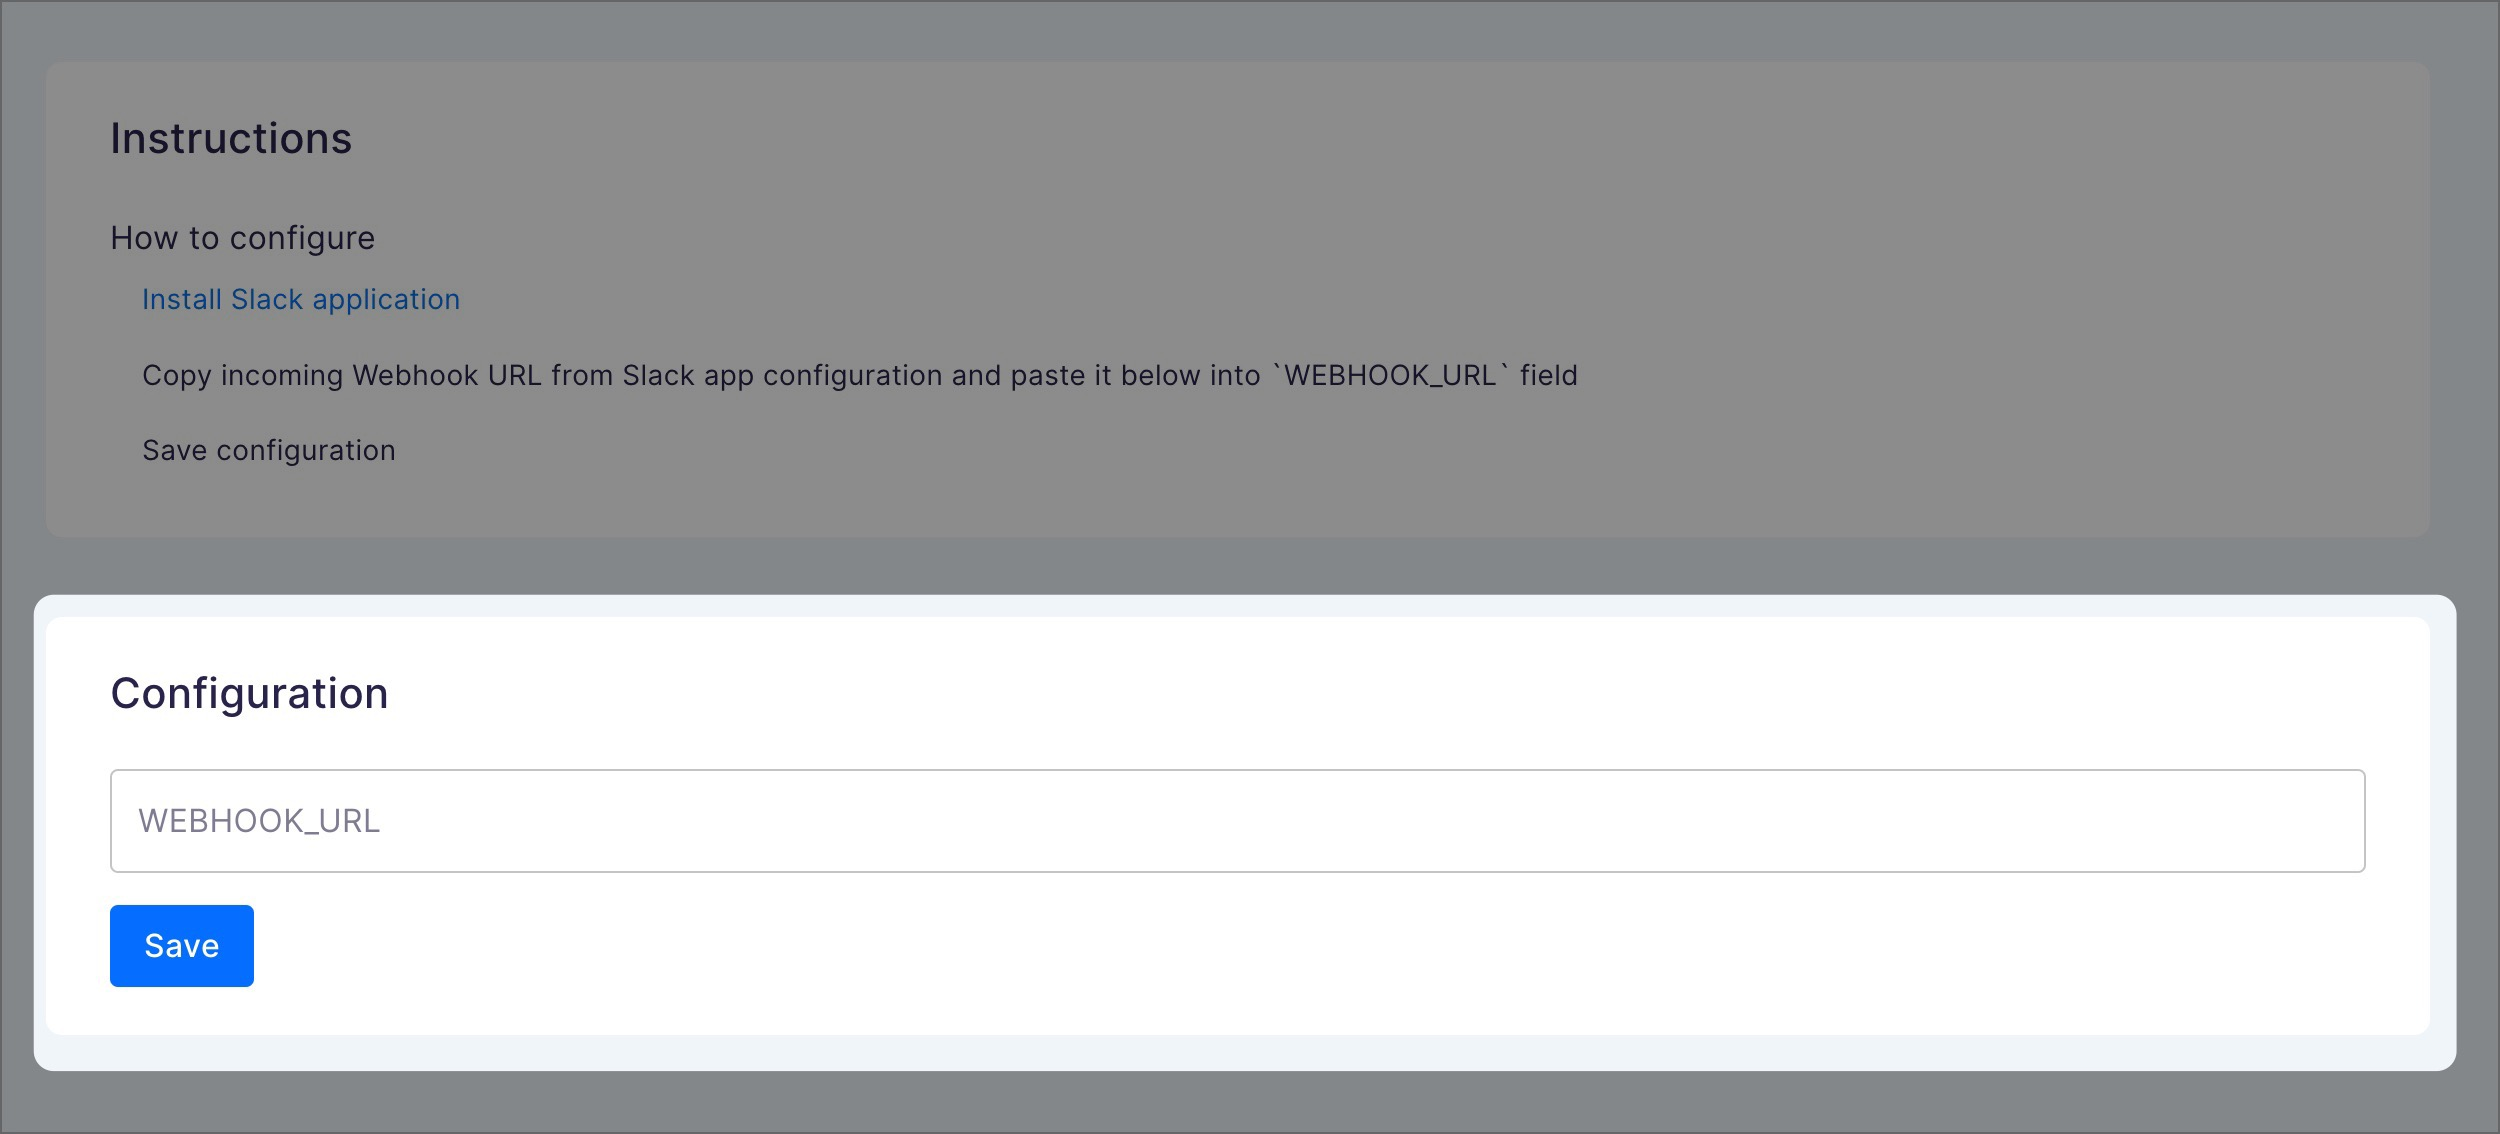
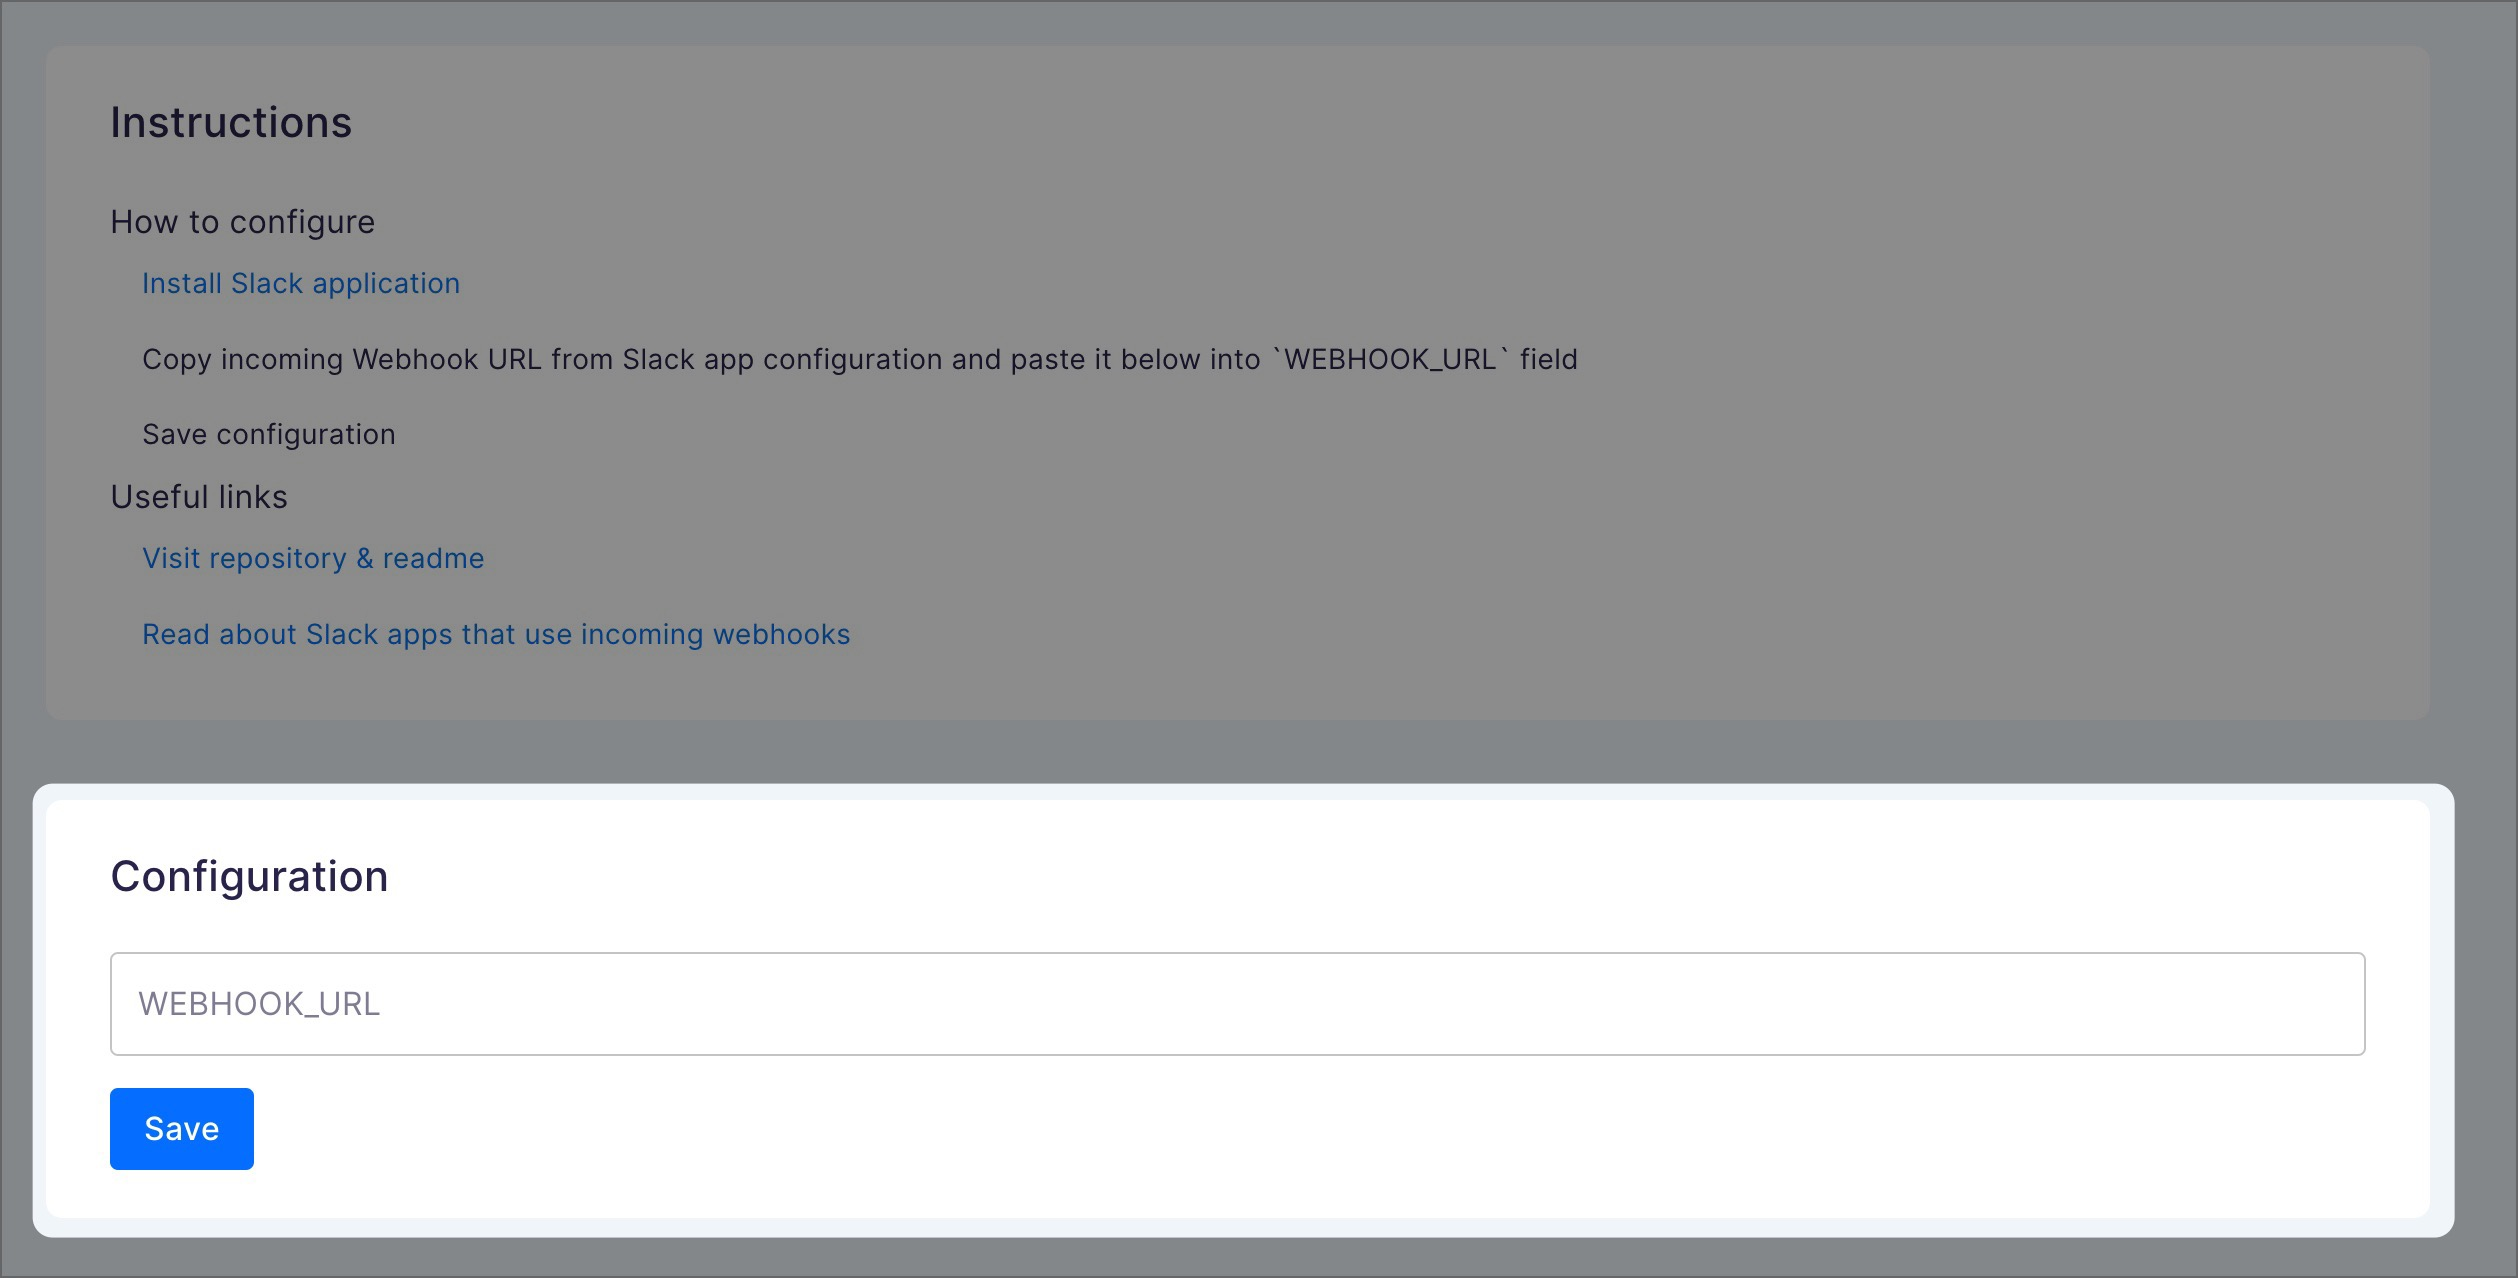
feat: add additional links to our & slack readme

Changed region(s): [[0.0, 0.4938, 0.9984, 0.9877], [0.0312, 0.0926, 0.624, 0.4012], [0.0624, 0.4321, 0.1872, 0.463]]

diff --git a/pages/configuration.tsx b/pages/configuration.tsx
@@ -133,6 +133,18 @@ function Instructions() {
   slackUrl.searchParams.append("new_app", "1");
   slackUrl.searchParams.append("manifest_json", JSON.stringify(data));
 
+  const openExternalUrl = (to: string) => {
+    // eslint-disable-next-line @typescript-eslint/no-floating-promises
+    appBridge?.dispatch({
+      type: "redirect",
+      payload: {
+        newContext: true,
+        actionId: "redirect_from_klaviyo_app",
+        to,
+      },
+    });
+  };
+
   return (
     <>
       <Typography>How to configure</Typography>
@@ -141,15 +153,7 @@ function Instructions() {
           <a
             onClick={(e) => {
               e.preventDefault();
-              // eslint-disable-next-line @typescript-eslint/no-floating-promises
-              appBridge?.dispatch({
-                type: "redirect",
-                payload: {
-                  newContext: true,
-                  actionId: "redirect_from_slack_app",
-                  to: slackUrl.href,
-                },
-              });
+              openExternalUrl(slackUrl.href);
             }}
             href={slackUrl.href}
           >
@@ -161,6 +165,31 @@ function Instructions() {
           `WEBHOOK_URL` field
         </ListItem>
         <ListItem>Save configuration</ListItem>
+      </List>
+      <Typography>Useful links</Typography>
+      <List>
+        <ListItem>
+          <a
+            onClick={(e) => {
+              e.preventDefault();
+              openExternalUrl("https://github.com/saleor/saleor-app-slack");
+            }}
+            href="https://github.com/saleor/saleor-app-slack"
+          >
+            Visit repository & readme
+          </a>
+        </ListItem>
+        <ListItem>
+          <a
+            onClick={(e) => {
+              e.preventDefault();
+              openExternalUrl("https://api.slack.com/messaging/webhooks");
+            }}
+            href="https://api.slack.com/messaging/webhooks"
+          >
+            Read about Slack apps that use incoming webhooks
+          </a>
+        </ListItem>
       </List>
     </>
   );
